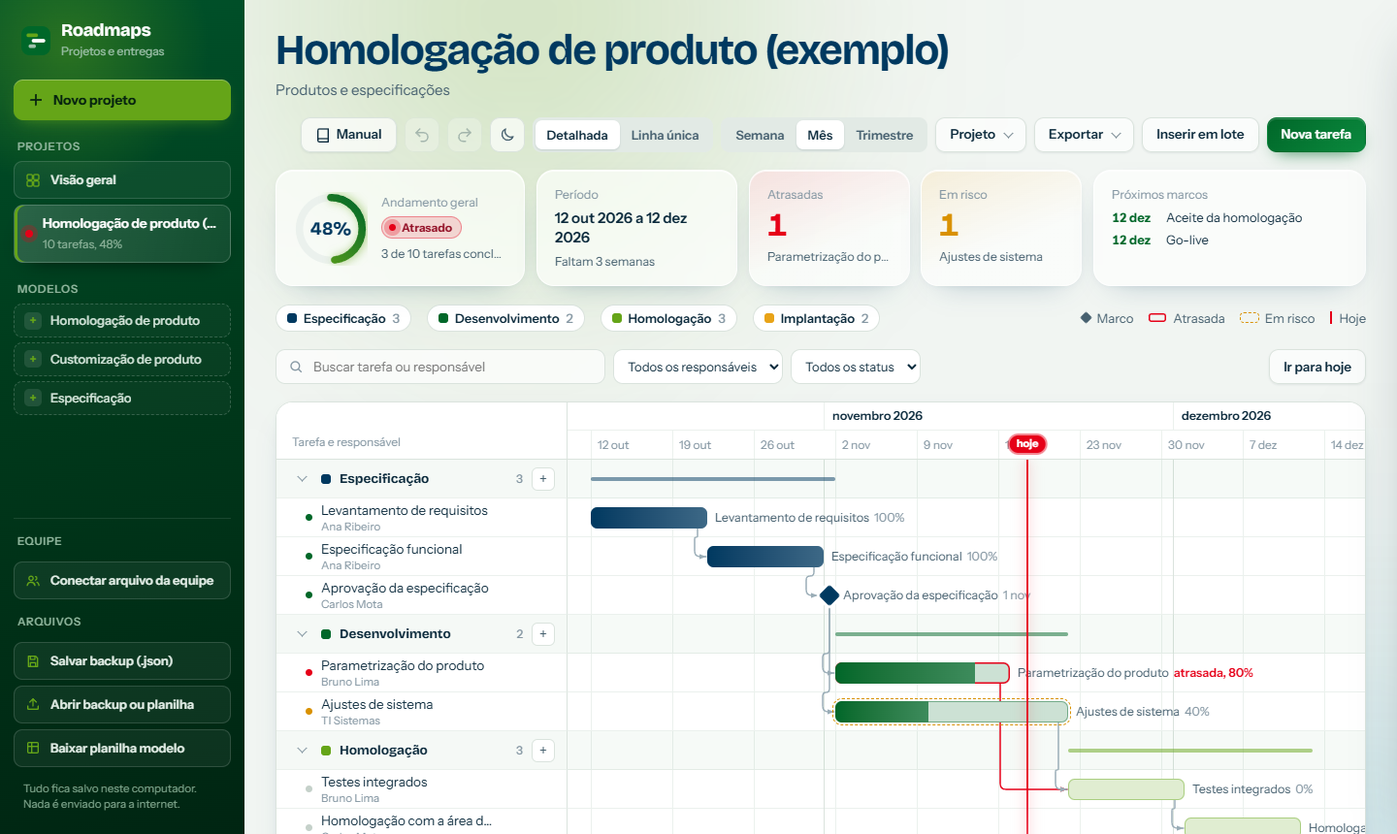
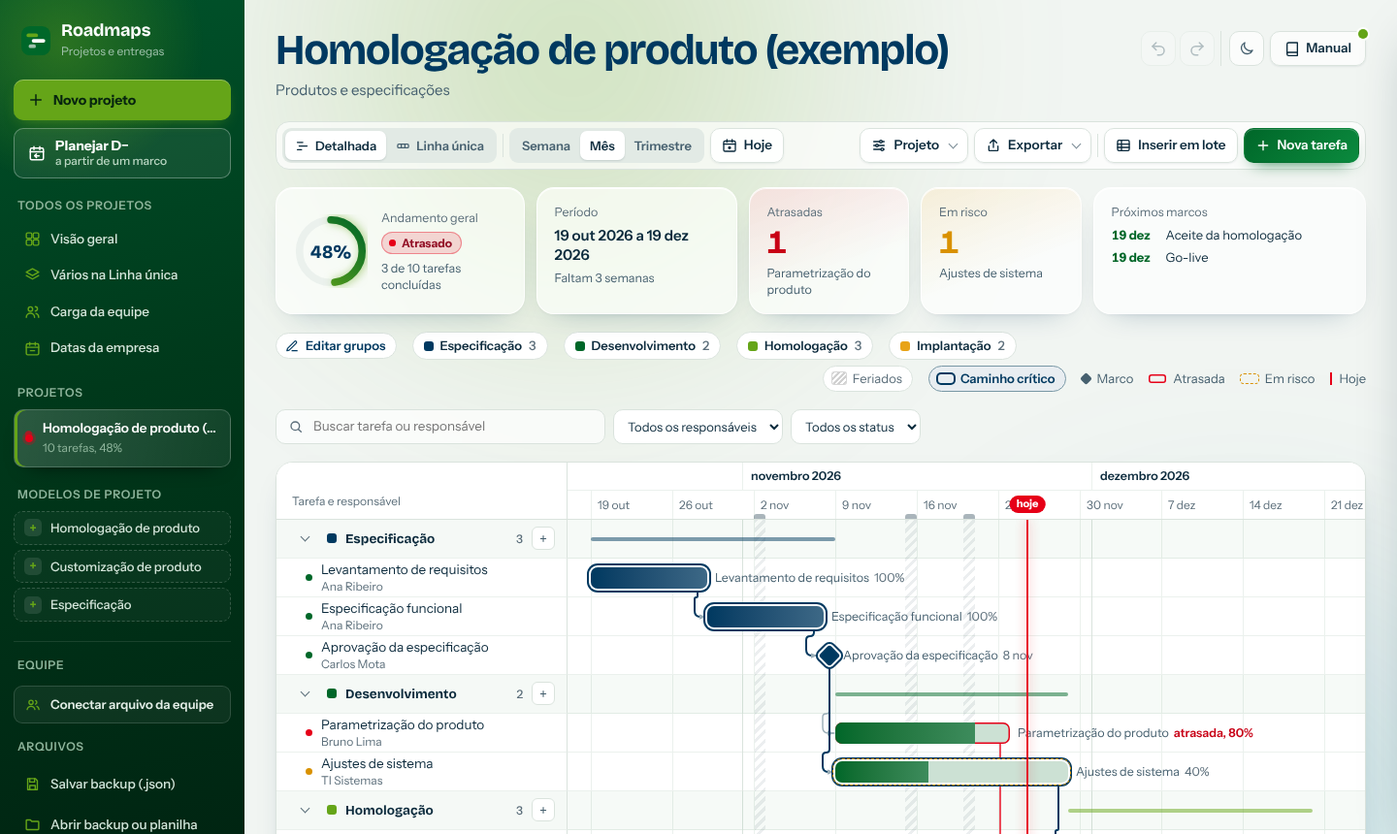
Menus reorganizados: barra lateral por seções e barra do cronograma em dois grupos
- Barra lateral: criar, Todos os projetos (Visão geral, Vários na Linha única,
  Carga da equipe, Datas da empresa), Projetos com contador, Modelos, Equipe, Arquivos
- Itens de navegação com ícone e texto, sem caixa; caixas só nas ações de criar
- No celular a barra lateral recolhe num botão Menu
- Barra do cronograma: à esquerda visão, Vários projetos (sempre visível),
  escala e Hoje; à direita Projeto, Exportar, Inserir em lote e Nova tarefa
- Desfazer, tema e Manual vão para o canto do título
- Menus Projeto e Exportar com ícones e seções
- Manual ganha "Onde fica cada coisa"; README e captura atualizados

Claude-Session: https://claude.ai/code/session_01PE2dqVPUrHEer5HNsE6hm6

diff --git a/index.html b/index.html
@@ -26,7 +26,8 @@ button{cursor:pointer}
 --sel:#1D1F1E;--seg:#18181C;--seg-on:#2B2B31;--title:#F4F4F5;--green-txt:#86C94A;--todo:#3A3A40;--arrow:#55565D;--arrow-hl:#D4D4D8;--band:rgba(255,255,255,.025);--wk:rgba(255,255,255,.02);--tip:#26262B;--lift:28%;--glass:rgba(24,24,28,.62);--edge:rgba(255,255,255,.08);--sh:inset 0 1px 0 rgba(255,255,255,.05),0 18px 40px -22px rgba(0,0,0,.95);--au1:rgba(101,165,24,.17);--au2:rgba(0,131,169,.15)}
 :root[data-theme=dark] .side{border-right:1px solid var(--line);color:var(--ink);background:linear-gradient(168deg,#0D1A11,var(--side) 52%)}
 :root[data-theme=dark] .brand small,:root[data-theme=dark] .side h3,:root[data-theme=dark] .pitem small,:root[data-theme=dark] .side-note,:root[data-theme=dark] .side .x{color:var(--ink-3)}
-:root[data-theme=dark] .pitem,:root[data-theme=dark] .tl,:root[data-theme=dark] .side-btn{color:var(--ink-2)}
+:root[data-theme=dark] .pitem,:root[data-theme=dark] .tl,:root[data-theme=dark] .side-btn,:root[data-theme=dark] .nav-i{color:var(--ink-2)}
+:root[data-theme=dark] .nav-i:hover{color:var(--ink)}
 :root[data-theme=dark] .side-btn,:root[data-theme=dark] .tl{border-color:var(--line)}
 :root[data-theme=dark] .side-foot{border-color:var(--line)}
 :root[data-theme=dark] .seg button[aria-pressed=true]{box-shadow:0 1px 2px rgba(0,0,0,.4)}
@@ -74,6 +75,17 @@ button{cursor:pointer}
 .side-btn:hover{background:rgba(255,255,255,.1);border-color:rgba(255,255,255,.28);box-shadow:0 6px 16px -10px rgba(0,0,0,.8)}
 .side-btn:hover svg{transform:scale(1.15)}
 .side .h3-gap{margin-top:10px}
+/* itens de navegação da barra lateral: ícone + texto, sem caixa (a caixa fica só para as ações de criar) */
+.side-new{display:flex;flex-direction:column;gap:8px}
+.side-sec{display:flex;flex-direction:column;gap:2px}
+.nav-i{display:flex;align-items:center;gap:10px;width:100%;background:none;border:1px solid transparent;color:#D5E6DB;text-align:left;padding:7px 10px;border-radius:9px;font-size:13.5px;font-weight:500}
+.nav-i svg{width:17px;height:17px;flex:none;color:var(--green-l)}
+.nav-i:hover{background:rgba(255,255,255,.08);color:#fff}
+.nav-i:focus-visible,.side-tog:focus-visible{outline:2px solid var(--green-l);outline-offset:1px}
+.h3-n:not(:empty){display:inline-grid;place-items:center;min-width:20px;height:18px;padding:0 6px;border-radius:99px;background:rgba(255,255,255,.12);color:#D5E6DB;font-size:11px;letter-spacing:0;margin-left:4px}
+.side-more{display:contents}
+.side-tog{display:none;align-items:center;gap:8px;background:rgba(255,255,255,.08);border:1px solid rgba(255,255,255,.2);color:#fff;border-radius:10px;padding:8px 12px;font-weight:600;font-size:13.5px}
+.side-tog svg{width:18px;height:18px}
 .team-box{display:flex;flex-direction:column;gap:6px}
 .team{display:flex;align-items:center;gap:10px;width:100%;text-align:left;background:rgba(255,255,255,.05);border:1px solid rgba(255,255,255,.14);color:#E3EEE7;padding:9px 11px;border-radius:9px;font-size:13px;transition:transform .2s cubic-bezier(.3,1.4,.5,1),background-color .15s,border-color .15s}
 .team:hover{background:rgba(255,255,255,.1);border-color:rgba(255,255,255,.28);transform:translateY(-1px)}
@@ -92,10 +104,21 @@ button{cursor:pointer}
 
 /* área principal */
 .main{padding:26px 32px 28px;display:flex;flex-direction:column;gap:18px;min-width:0}
-.top{display:flex;gap:20px;align-items:flex-end;justify-content:space-between;flex-wrap:wrap}
-.top{row-gap:14px}
-.title-wrap{flex:1 1 100%;min-width:0;display:flex;flex-direction:column}
-.top .actions{margin-left:auto}
+.top{display:flex;gap:16px;align-items:flex-start;justify-content:space-between}
+.title-wrap{flex:1 1 auto;min-width:0;display:flex;flex-direction:column}
+/* utilidades (desfazer, tema, manual): discretas, no canto do título */
+.util{display:flex;gap:6px;align-items:center;flex:none;padding-top:6px}
+.util-g{display:inline-flex;gap:4px;padding-right:6px;margin-right:2px;border-right:1px solid var(--line)}
+/* barra de comandos: à esquerda o que muda a visualização, à direita o que age no projeto; a ação principal fica no fim */
+.cmdbar{position:relative;z-index:25;display:flex;justify-content:space-between;align-items:center;gap:8px;flex-wrap:wrap;padding:6px;border:1px solid var(--line);border-radius:14px;background:var(--glass);-webkit-backdrop-filter:blur(10px);backdrop-filter:blur(10px)}
+.cb-g{display:flex;gap:6px;align-items:center;flex-wrap:wrap}
+.cmdbar .btn{padding:0 11px;gap:7px}
+.cmdbar .seg button{padding:0 10px}
+.cb-r{margin-left:auto}
+.cb-sep{width:1px;height:24px;background:var(--line);flex:none}
+.btn svg{width:16px;height:16px;flex:none}
+.seg-ic button{display:inline-flex;align-items:center;gap:6px}
+.seg-ic svg{width:15px;height:15px}
 .p-title{font:700 clamp(28px,3.2vw,44px)/1.08 var(--f-d);letter-spacing:-.028em;border:0;background:none;padding:2px 0;width:100%;color:var(--title);border-radius:0}
 .p-sub{border:0;background:none;color:var(--ink-2);font-size:15px;padding:4px 0;width:100%}
 .p-title:focus,.p-sub:focus{outline:none;box-shadow:0 2px 0 var(--green-l)}
@@ -118,7 +141,15 @@ button{cursor:pointer}
 .menu{position:relative}
 .menu summary::after{content:"";width:6px;height:6px;border:solid currentColor;border-width:0 1.5px 1.5px 0;transform:translateY(-2px) rotate(45deg);margin-left:4px;opacity:.55}
 .menu-pop{position:absolute;right:0;top:calc(100% + 6px);background:color-mix(in srgb,var(--surface) 86%,transparent);-webkit-backdrop-filter:blur(20px) saturate(1.5);backdrop-filter:blur(20px) saturate(1.5);border:1px solid var(--line);border-radius:13px;padding:5px;min-width:220px;z-index:30;box-shadow:0 18px 40px -14px rgba(11,42,60,.35);display:flex;flex-direction:column;animation:pop .28s cubic-bezier(.2,1.3,.4,1);transform-origin:top right}
-.menu-pop button{border:0;background:none;text-align:left;padding:9px 10px;border-radius:7px;font-size:13.5px}
+.menu-pop button{border:0;background:none;text-align:left;padding:8px 10px;border-radius:7px;font-size:13.5px;display:flex;align-items:center;gap:10px;color:var(--ink)}
+.menu-pop button[hidden]{display:none}
+.menu-pop button svg{width:16px;height:16px;flex:none;color:var(--ink-2)}
+.menu-pop .mp-h{font-size:11px;font-weight:700;color:var(--ink-3);padding:8px 10px 3px;text-transform:uppercase;letter-spacing:.05em}
+.menu-pop .mp-h:first-child{padding-top:4px}
+.menu-pop hr{border:0;border-top:1px solid var(--line);margin:5px 4px}
+.menu-pop.left{left:0;right:auto;transform-origin:top left}
+.cmdbar .menu-pop{background:var(--surface)}
+.menu-pop .danger svg{color:var(--red-txt)}
 .menu-pop button:hover{background:var(--line-2)}
 .menu-pop .danger{color:var(--red-txt)}
 @keyframes pop{from{opacity:0;transform:translateY(-6px) scale(.94)}}
@@ -126,7 +157,7 @@ button{cursor:pointer}
 /* movimento comum dos botões: sobe no hover, afunda no clique */
 :is(.btn,.btn-new,.side-btn,.tl,.pitem,.theme,.seg button,.menu-pop button,button.lg){transition:transform .2s cubic-bezier(.3,1.4,.5,1),background-color .15s,border-color .15s,box-shadow .2s,color .15s}
 :is(.btn,.btn-new,.side-btn,.tl,.theme):hover{transform:translateY(-1px)}
-:is(.pitem,.menu-pop button):hover{transform:translateX(2px)}
+:is(.pitem,.nav-i,.menu-pop button):hover{transform:translateX(2px)}
 :is(.btn,.btn-new,.side-btn,.tl,.pitem,.theme,.seg button,.menu-pop button,button.lg):active{transform:scale(.96);transition-duration:.08s}
 
 /* resumo */
@@ -690,15 +721,16 @@ body::after{right:-20vmax;bottom:-32vmax;background:radial-gradient(circle,var(-
 
 @media (max-width:860px){
   .app{grid-template-columns:minmax(0,1fr)}
-  .side{position:static;height:auto;flex-direction:row;flex-wrap:wrap;align-items:center;gap:10px}
-  .side-sec,.side-note,.side-foot h3{display:none}
-  .plist{flex-direction:row;overflow:auto;width:100%}
-  .pitem{flex:none;max-width:210px}
-  .side > div:has(#plist){width:100%;display:grid;grid-template-columns:repeat(3,minmax(0,1fr));gap:6px}
-  .side > div:has(#plist) > h3,.side > div:has(#plist) > .plist{grid-column:1/-1}
-  .side > div:has(#plist) .side-btn{flex-direction:column;align-items:flex-start;gap:6px;padding:9px 10px;font-size:12.5px;line-height:1.25}
-  .side-foot{margin:0;width:100%;display:grid;grid-template-columns:repeat(2,minmax(0,1fr));border:0;padding:0}
-  .side-foot .side-btn{font-size:12.5px;line-height:1.25}
+  /* no celular a barra lateral vira uma faixa com a marca e o botão Menu, que abre o resto */
+  .side{position:sticky;z-index:40;height:auto;max-height:100vh;flex-direction:row;flex-wrap:wrap;align-items:center;gap:12px;padding:12px 16px}
+  .brand{flex:1;padding:0}
+  .side-tog{display:flex}
+  .side-more{display:none;width:100%;flex-direction:column;gap:18px;padding:4px 0 8px}
+  .side.open .side-more{display:flex}
+  .side-foot{margin:0}
+  .top{flex-wrap:wrap}
+  .cb-r{margin-left:0}
+  .cb-sep{display:none}
   .p-title{font-size:24px}
   .main{padding:18px 16px}
   .sm-ms{grid-column:auto}
@@ -709,7 +741,7 @@ body::after{right:-20vmax;bottom:-32vmax;background:radial-gradient(circle,var(-
 @media print{
   @page{size:A4 landscape;margin:10mm}
   body{background:#fff}
-  .side,.actions,.tools,.drawer,.toast,.tip,body::before,body::after{display:none!important}
+  .side,.util,.cmdbar,.tools,.drawer,.toast,.tip,body::before,body::after{display:none!important}
   .sm{-webkit-backdrop-filter:none;backdrop-filter:none;box-shadow:none;border-color:#ccc}
   .app{display:block}.main{padding:0}
   .gantt{max-height:none;overflow:visible;border:0}
@@ -724,19 +756,27 @@ body::after{right:-20vmax;bottom:-32vmax;background:radial-gradient(circle,var(-
       <svg width="30" height="30" viewBox="0 0 28 28" aria-hidden="true"><rect width="28" height="28" rx="8" fill="#006729"/><rect x="5" y="7" width="11" height="3.5" rx="1.75" fill="#65A518"/><rect x="10" y="12.25" width="13" height="3.5" rx="1.75" fill="#fff"/><rect x="7" y="17.5" width="7" height="3.5" rx="1.75" fill="#9FC2AC"/></svg>
       <div><b>Roadmaps</b><small>Projetos e entregas</small></div>
     </div>
-    <button class="btn-new" id="btnNovo"><svg viewBox="0 0 24 24" fill="none" stroke="currentColor" stroke-width="2.4" stroke-linecap="round" aria-hidden="true"><path d="M12 5v14M5 12h14"/></svg>Novo projeto</button>
-    <button class="btn-dm edit-only" data-act="dm" title="Planejar de trás para frente a partir de um marco, em dias úteis"><svg viewBox="0 0 24 24" fill="none" stroke="currentColor" stroke-width="2" stroke-linecap="round" stroke-linejoin="round" aria-hidden="true"><rect x="3" y="5" width="18" height="16" rx="2"/><path d="M3 10h18M8 3v4M16 3v4"/><path d="M15 15.5h-6M11.5 13 9 15.5l2.5 2.5"/></svg><span>Planejar D−<small>a partir de um marco</small></span></button>
-    <div><h3>Projetos</h3><button class="side-btn all" data-act="all"><svg viewBox="0 0 24 24" fill="none" stroke="currentColor" stroke-width="2" stroke-linecap="round" stroke-linejoin="round" aria-hidden="true"><rect x="3" y="3" width="8" height="8" rx="2"/><rect x="13" y="3" width="8" height="8" rx="2"/><rect x="3" y="13" width="8" height="8" rx="2"/><rect x="13" y="13" width="8" height="8" rx="2"/></svg>Visão geral</button><button class="side-btn all" data-act="marks"><svg viewBox="0 0 24 24" fill="none" stroke="currentColor" stroke-width="2" stroke-linecap="round" stroke-linejoin="round" aria-hidden="true"><rect x="3" y="5" width="18" height="16" rx="2"/><path d="M3 10h18M8 3v4M16 3v4M9 15h6"/></svg>Datas da empresa</button><button class="side-btn all" data-act="load"><svg viewBox="0 0 24 24" fill="none" stroke="currentColor" stroke-width="2" stroke-linecap="round" stroke-linejoin="round" aria-hidden="true"><circle cx="9" cy="8" r="3.2"/><path d="M3 20c0-3.3 2.7-6 6-6s6 2.7 6 6"/><path d="M16 4.5a3.2 3.2 0 0 1 0 6.4M21 20c0-2.6-1.6-4.8-4-5.6"/></svg>Carga da equipe</button><nav class="plist" id="plist" aria-label="Projetos"></nav></div>
-    <div class="side-sec"><h3>Modelos</h3><ul class="tlist" id="tlist"></ul></div>
+    <button class="side-tog" id="sideTog" type="button" aria-expanded="false" aria-controls="sideMore"><svg viewBox="0 0 24 24" fill="none" stroke="currentColor" stroke-width="2" stroke-linecap="round" stroke-linejoin="round" aria-hidden="true"><path d="M4 6h16M4 12h16M4 18h16"/></svg><span>Menu</span></button>
+    <div class="side-more" id="sideMore">
+    <div class="side-new"><button class="btn-new" id="btnNovo"><svg viewBox="0 0 24 24" fill="none" stroke="currentColor" stroke-width="2" stroke-linecap="round" stroke-linejoin="round" aria-hidden="true"><path d="M12 5v14M5 12h14"/></svg>Novo projeto</button>
+    <button class="btn-dm edit-only" data-act="dm" title="Planejar de trás para frente a partir de um marco, em dias úteis"><svg viewBox="0 0 24 24" fill="none" stroke="currentColor" stroke-width="2" stroke-linecap="round" stroke-linejoin="round" aria-hidden="true"><rect x="3" y="5" width="18" height="16" rx="2"/><path d="M3 10h18M8 3v4M16 3v4"/><path d="M15 15.5h-6M11.5 13 9 15.5l2.5 2.5"/></svg><span>Planejar D−<small>a partir de um marco</small></span></button></div>
+    <nav class="side-sec" aria-label="Painéis de todos os projetos"><h3>Todos os projetos</h3>
+      <button class="nav-i" data-act="all"><svg viewBox="0 0 24 24" fill="none" stroke="currentColor" stroke-width="2" stroke-linecap="round" stroke-linejoin="round" aria-hidden="true"><rect x="3" y="3" width="8" height="8" rx="2"/><rect x="13" y="3" width="8" height="8" rx="2"/><rect x="3" y="13" width="8" height="8" rx="2"/><rect x="13" y="13" width="8" height="8" rx="2"/></svg>Visão geral</button>
+      <button class="nav-i" data-act="lpOpen" title="Ver vários projetos juntos, um embaixo do outro, na mesma régua de meses"><svg viewBox="0 0 24 24" fill="none" stroke="currentColor" stroke-width="2" stroke-linecap="round" stroke-linejoin="round" aria-hidden="true"><path d="m12 3 9 5-9 5-9-5z"/><path d="m3 13 9 5 9-5"/></svg>Vários na Linha única</button>
+      <button class="nav-i" data-act="load"><svg viewBox="0 0 24 24" fill="none" stroke="currentColor" stroke-width="2" stroke-linecap="round" stroke-linejoin="round" aria-hidden="true"><circle cx="9" cy="8" r="3.2"/><path d="M3 20c0-3.3 2.7-6 6-6s6 2.7 6 6"/><path d="M16 4.5a3.2 3.2 0 0 1 0 6.4M21 20c0-2.6-1.6-4.8-4-5.6"/></svg>Carga da equipe</button>
+      <button class="nav-i" data-act="marks"><svg viewBox="0 0 24 24" fill="none" stroke="currentColor" stroke-width="2" stroke-linecap="round" stroke-linejoin="round" aria-hidden="true"><rect x="3" y="5" width="18" height="16" rx="2"/><path d="M3 10h18M8 3v4M16 3v4M9 15h6"/></svg>Datas da empresa</button></nav>
+    <div class="side-sec"><h3>Projetos <span class="h3-n" id="plistN"></span></h3><nav class="plist" id="plist" aria-label="Projetos"></nav></div>
+    <div class="side-sec"><h3>Modelos de projeto</h3><ul class="tlist" id="tlist"></ul></div>
     <div class="side-foot">
       <h3>Equipe</h3>
       <div id="team" class="team-box"></div>
       <h3 class="h3-gap">Arquivos</h3>
-      <button class="side-btn" id="btnBackup"><svg viewBox="0 0 24 24" fill="none" stroke="currentColor" stroke-width="2" stroke-linecap="round" stroke-linejoin="round" aria-hidden="true"><path d="M5 4h11l3 3v13H5z"/><path d="M8 4v5h7V4M8 20v-6h8v6"/></svg>Salvar backup (.json)</button>
-      <button class="side-btn" id="btnOpen"><svg viewBox="0 0 24 24" fill="none" stroke="currentColor" stroke-width="2" stroke-linecap="round" stroke-linejoin="round" aria-hidden="true"><path d="M12 15V4M7 9l5-5 5 5M4 15v4a1 1 0 0 0 1 1h14a1 1 0 0 0 1-1v-4"/></svg>Abrir backup ou planilha</button>
-      <button class="side-btn" id="btnModelo"><svg viewBox="0 0 24 24" fill="none" stroke="currentColor" stroke-width="2" stroke-linecap="round" stroke-linejoin="round" aria-hidden="true"><rect x="4" y="4" width="16" height="16" rx="2"/><path d="M4 10h16M10 4v16"/></svg>Baixar planilha modelo</button>
+      <button class="nav-i" id="btnBackup"><svg viewBox="0 0 24 24" fill="none" stroke="currentColor" stroke-width="2" stroke-linecap="round" stroke-linejoin="round" aria-hidden="true"><path d="M5 4h11l3 3v13H5z"/><path d="M8 4v5h7V4M8 20v-6h8v6"/></svg>Salvar backup (.json)</button>
+      <button class="nav-i" id="btnOpen"><svg viewBox="0 0 24 24" fill="none" stroke="currentColor" stroke-width="2" stroke-linecap="round" stroke-linejoin="round" aria-hidden="true"><path d="M3 6a1 1 0 0 1 1-1h5l2 2h9a1 1 0 0 1 1 1v10a1 1 0 0 1-1 1H4a1 1 0 0 1-1-1z"/></svg>Abrir backup ou planilha</button>
+      <button class="nav-i" id="btnModelo"><svg viewBox="0 0 24 24" fill="none" stroke="currentColor" stroke-width="2" stroke-linecap="round" stroke-linejoin="round" aria-hidden="true"><path d="M14 3H6a1 1 0 0 0-1 1v16a1 1 0 0 0 1 1h12a1 1 0 0 0 1-1V8z"/><path d="M14 3v5h5M12 11v6M9 14l3 3 3-3"/></svg>Baixar planilha modelo</button>
       <input type="file" id="fileOpen" accept=".json,.xlsx" hidden>
       <p class="side-note">Tudo fica salvo neste computador. Nada é enviado para a internet.</p>
+    </div>
     </div>
   </aside>
 
@@ -746,48 +786,62 @@ body::after{right:-20vmax;bottom:-32vmax;background:radial-gradient(circle,var(-
         <input class="p-title" id="pTitle" aria-label="Nome do projeto" spellcheck="false" autocomplete="off">
         <input class="p-sub" id="pSub" placeholder="Área ou descrição do projeto" aria-label="Área ou descrição" autocomplete="off">
       </div>
-      <div class="actions">
-        <button class="btn edit-only" id="btnManual" title="Como usar cada função"><svg width="16" height="16" viewBox="0 0 24 24" fill="none" stroke="currentColor" stroke-width="2" stroke-linecap="round" stroke-linejoin="round" aria-hidden="true"><path d="M4 5.5A2.5 2.5 0 0 1 6.5 3H20v15H6.5A2.5 2.5 0 0 0 4 20.5zM4 20.5A2.5 2.5 0 0 0 6.5 23H20v-5"/></svg>Manual</button>
-        <button class="theme edit-only" id="btnUndo" data-act="undo" aria-label="Desfazer" title="Desfazer (Ctrl+Z)" disabled><svg viewBox="0 0 24 24" fill="none" stroke="currentColor" stroke-width="2" stroke-linecap="round" stroke-linejoin="round" aria-hidden="true"><path d="M9 14 4 9l5-5"/><path d="M4 9h10a6 6 0 0 1 0 12h-3"/></svg></button>
-        <button class="theme edit-only" id="btnRedo" data-act="redo" aria-label="Refazer" title="Refazer (Ctrl+Y)" disabled><svg viewBox="0 0 24 24" fill="none" stroke="currentColor" stroke-width="2" stroke-linecap="round" stroke-linejoin="round" aria-hidden="true"><path d="m15 14 5-5-5-5"/><path d="M20 9H10a6 6 0 0 0 0 12h3"/></svg></button>
+      <div class="util">
+        <span class="util-g edit-only"><button class="theme edit-only" id="btnUndo" data-act="undo" aria-label="Desfazer" title="Desfazer (Ctrl+Z)" disabled><svg viewBox="0 0 24 24" fill="none" stroke="currentColor" stroke-width="2" stroke-linecap="round" stroke-linejoin="round" aria-hidden="true"><path d="M9 14 4 9l5-5"/><path d="M4 9h10a6 6 0 0 1 0 12h-3"/></svg></button><button class="theme edit-only" id="btnRedo" data-act="redo" aria-label="Refazer" title="Refazer (Ctrl+Y)" disabled><svg viewBox="0 0 24 24" fill="none" stroke="currentColor" stroke-width="2" stroke-linecap="round" stroke-linejoin="round" aria-hidden="true"><path d="m15 14 5-5-5-5"/><path d="M20 9H10a6 6 0 0 0 0 12h3"/></svg></button></span>
         <button class="theme" id="btnTheme" aria-label="Tema escuro" aria-pressed="false" title="Alternar entre tema claro e escuro">
           <svg class="i-moon" viewBox="0 0 24 24" fill="none" stroke="currentColor" stroke-width="1.8" stroke-linecap="round" stroke-linejoin="round" aria-hidden="true"><path d="M20 14.5A8 8 0 0 1 9.5 4a8 8 0 1 0 10.5 10.5z"/></svg>
           <svg class="i-sun" viewBox="0 0 24 24" fill="none" stroke="currentColor" stroke-width="1.8" stroke-linecap="round" aria-hidden="true"><circle cx="12" cy="12" r="4"/><path d="M12 2.5v2M12 19.5v2M4.6 4.6 6 6M18 18l1.4 1.4M2.5 12h2M19.5 12h2M4.6 19.4 6 18M18 6l1.4-1.4"/></svg>
         </button>
-        <div class="seg" id="view" role="group" aria-label="Visão do cronograma">
-          <button data-v="detail" title="Uma linha por tarefa, com grupos e dependências">Detalhada</button><button data-v="line" title="Resumo executivo: todas as tarefas numa faixa contínua, com cores, nomes e datas">Linha única</button>
-        </div>
-        <details class="menu" id="lpMenu" hidden><summary class="btn" title="Escolher os projetos que aparecem na Linha única">Projetos <span class="lp-n" id="lpN"></span></summary>
-          <div class="menu-pop lp-pop" id="lpPop"></div>
-        </details>
-        <div class="seg" id="zoom" role="group" aria-label="Escala do Gantt">
-          <button data-z="week">Semana</button><button data-z="month">Mês</button><button data-z="quarter">Trimestre</button>
-        </div>
-        <details class="menu edit-only"><summary class="btn">Projeto</summary>
-          <div class="menu-pop">
-            <button data-act="groups">Grupos e cores</button>
-            <button data-act="baseSet">Salvar linha de base</button>
-            <button data-act="baseDel" hidden>Remover linha de base</button>
-            <button data-act="rag">Critério das cores</button>
-            <button data-act="dmRe" hidden>Replanejar D−</button>
-            <button data-act="saveTpl">Salvar como modelo</button>
-            <button data-act="dup">Duplicar projeto</button>
-            <button data-act="del" class="danger">Excluir projeto</button>
-          </div>
-        </details>
-        <details class="menu"><summary class="btn">Exportar</summary>
-          <div class="menu-pop">
-            <button data-act="report">Relatório executivo (1 página)</button>
-            <button data-act="pptx">PowerPoint (.pptx)</button>
-            <button data-act="xlsx">Planilha Excel (.xlsx)</button>
-            <button data-act="html" class="edit-only">HTML para envio</button>
-            <button data-act="print">Imprimir ou salvar PDF</button>
-          </div>
-        </details>
-        <button class="btn edit-only" data-act="batch" title="Digitar ou colar várias tarefas de uma vez">Inserir em lote</button>
-        <button class="btn primary edit-only" data-act="newTask">Nova tarefa</button>
+        <button class="btn edit-only" id="btnManual" title="Como usar cada função"><svg width="16" height="16" viewBox="0 0 24 24" fill="none" stroke="currentColor" stroke-width="2" stroke-linecap="round" stroke-linejoin="round" aria-hidden="true"><path d="M4 5.5A2.5 2.5 0 0 1 6.5 3H20v15H6.5A2.5 2.5 0 0 0 4 20.5zM4 20.5A2.5 2.5 0 0 0 6.5 23H20v-5"/></svg>Manual</button>
       </div>
     </header>
+    <div class="cmdbar" role="toolbar" aria-label="Cronograma">
+      <div class="cb-g">
+        <div class="seg seg-ic" id="view" role="group" aria-label="Visão do cronograma">
+          <button data-v="detail" title="Uma linha por tarefa, com grupos e dependências"><svg viewBox="0 0 24 24" fill="none" stroke="currentColor" stroke-width="2" stroke-linecap="round" stroke-linejoin="round" aria-hidden="true"><path d="M4 6h9M7 12h13M4 18h7"/></svg>Detalhada</button><button data-v="line" title="Resumo executivo: todas as tarefas numa faixa contínua. Dá para ver vários projetos juntos"><svg viewBox="0 0 24 24" fill="none" stroke="currentColor" stroke-width="2" stroke-linecap="round" stroke-linejoin="round" aria-hidden="true"><rect x="3" y="9" width="18" height="6" rx="2"/><path d="M9 9v6M15 9v6"/></svg>Linha única</button>
+        </div>
+        <details class="menu" id="lpMenu" hidden><summary class="btn" title="Escolher os projetos que aparecem juntos na Linha única"><svg viewBox="0 0 24 24" fill="none" stroke="currentColor" stroke-width="2" stroke-linecap="round" stroke-linejoin="round" aria-hidden="true"><path d="m12 3 9 5-9 5-9-5z"/><path d="m3 13 9 5 9-5"/></svg><span>Vários projetos</span><span class="lp-n" id="lpN"></span></summary>
+          <div class="menu-pop lp-pop left" id="lpPop"></div>
+        </details>
+        <span class="cb-sep" aria-hidden="true"></span>
+        <div class="seg" id="zoom" role="group" aria-label="Escala do cronograma">
+          <button data-z="week">Semana</button><button data-z="month">Mês</button><button data-z="quarter">Trimestre</button>
+        </div>
+        <button class="btn" id="btnHoje" data-act="hoje" title="Rolar o cronograma até o dia de hoje"><svg viewBox="0 0 24 24" fill="none" stroke="currentColor" stroke-width="2" stroke-linecap="round" stroke-linejoin="round" aria-hidden="true"><rect x="3" y="5" width="18" height="16" rx="2"/><path d="M3 10h18M8 3v4M16 3v4"/><circle cx="12" cy="15.5" r="1.5" fill="currentColor"/></svg>Hoje</button>
+      </div>
+      <div class="cb-g cb-r">
+        <details class="menu edit-only"><summary class="btn"><svg viewBox="0 0 24 24" fill="none" stroke="currentColor" stroke-width="2" stroke-linecap="round" stroke-linejoin="round" aria-hidden="true"><path d="M4 6h9M17 6h3M4 12h3M11 12h9M4 18h11M19 18h1"/><circle cx="15" cy="6" r="2"/><circle cx="9" cy="12" r="2"/><circle cx="17" cy="18" r="2"/></svg>Projeto</summary>
+          <div class="menu-pop">
+            <div class="mp-h">Organizar</div>
+            <button data-act="groups"><svg viewBox="0 0 24 24" fill="none" stroke="currentColor" stroke-width="2" stroke-linecap="round" stroke-linejoin="round" aria-hidden="true"><rect x="3" y="3" width="7" height="7" rx="1.5"/><rect x="14" y="3" width="7" height="7" rx="1.5"/><rect x="3" y="14" width="7" height="7" rx="1.5"/><circle cx="17.5" cy="17.5" r="3.5"/></svg><span>Grupos e cores</span></button>
+            <button data-act="rag"><svg viewBox="0 0 24 24" fill="none" stroke="currentColor" stroke-width="2" stroke-linecap="round" stroke-linejoin="round" aria-hidden="true"><path d="M4.5 18a9 9 0 1 1 15 0"/><path d="m12 13 3.5-3.5"/><circle cx="12" cy="13" r="1"/></svg><span>Critério das cores</span></button>
+            <div class="mp-h">Acompanhar o plano</div>
+            <button data-act="baseSet"><svg viewBox="0 0 24 24" fill="none" stroke="currentColor" stroke-width="2" stroke-linecap="round" stroke-linejoin="round" aria-hidden="true"><path d="M5 21V4h12l-2.5 4L17 12H5"/></svg><span>Salvar linha de base</span></button>
+            <button data-act="baseDel" hidden><svg viewBox="0 0 24 24" fill="none" stroke="currentColor" stroke-width="2" stroke-linecap="round" stroke-linejoin="round" aria-hidden="true"><path d="M5 21V4h12l-2.5 4L17 12H5"/></svg><span>Remover linha de base</span></button>
+            <button data-act="dmRe" hidden><svg viewBox="0 0 24 24" fill="none" stroke="currentColor" stroke-width="2" stroke-linecap="round" stroke-linejoin="round" aria-hidden="true"><rect x="3" y="5" width="18" height="16" rx="2"/><path d="M3 10h18M8 3v4M16 3v4"/><path d="M15 15.5h-6M11.5 13 9 15.5l2.5 2.5"/></svg><span>Replanejar D−</span></button>
+            <div class="mp-h">Reaproveitar</div>
+            <button data-act="saveTpl"><svg viewBox="0 0 24 24" fill="none" stroke="currentColor" stroke-width="2" stroke-linecap="round" stroke-linejoin="round" aria-hidden="true"><path d="M6 3h12v18l-6-4-6 4z"/><path d="M12 7v6M9 10h6"/></svg><span>Salvar como modelo</span></button>
+            <button data-act="dup"><svg viewBox="0 0 24 24" fill="none" stroke="currentColor" stroke-width="2" stroke-linecap="round" stroke-linejoin="round" aria-hidden="true"><rect x="8" y="8" width="13" height="13" rx="2"/><path d="M16 8V5a2 2 0 0 0-2-2H5a2 2 0 0 0-2 2v9a2 2 0 0 0 2 2h3"/></svg><span>Duplicar projeto</span></button>
+            <hr>
+            <button data-act="del" class="danger"><svg viewBox="0 0 24 24" fill="none" stroke="currentColor" stroke-width="2" stroke-linecap="round" stroke-linejoin="round" aria-hidden="true"><path d="M4 7h16M10 11v6M14 11v6M6 7l1 13h10l1-13M9 7V4h6v3"/></svg><span>Excluir projeto</span></button>
+          </div>
+        </details>
+        <details class="menu"><summary class="btn"><svg viewBox="0 0 24 24" fill="none" stroke="currentColor" stroke-width="2" stroke-linecap="round" stroke-linejoin="round" aria-hidden="true"><path d="M12 15V3M7 8l5-5 5 5"/><path d="M5 13v6a1 1 0 0 0 1 1h12a1 1 0 0 0 1-1v-6"/></svg>Exportar</summary>
+          <div class="menu-pop">
+            <div class="mp-h">Apresentar</div>
+            <button data-act="report"><svg viewBox="0 0 24 24" fill="none" stroke="currentColor" stroke-width="2" stroke-linecap="round" stroke-linejoin="round" aria-hidden="true"><path d="M14 3H6a1 1 0 0 0-1 1v16a1 1 0 0 0 1 1h12a1 1 0 0 0 1-1V8z"/><path d="M14 3v5h5M9 13h6M9 17h4"/></svg><span>Relatório executivo (1 página)</span></button>
+            <button data-act="pptx"><svg viewBox="0 0 24 24" fill="none" stroke="currentColor" stroke-width="2" stroke-linecap="round" stroke-linejoin="round" aria-hidden="true"><rect x="3" y="4" width="18" height="12" rx="1.5"/><path d="M12 16v4M8 20h8"/></svg><span>PowerPoint (.pptx)</span></button>
+            <div class="mp-h">Enviar ou guardar</div>
+            <button data-act="xlsx"><svg viewBox="0 0 24 24" fill="none" stroke="currentColor" stroke-width="2" stroke-linecap="round" stroke-linejoin="round" aria-hidden="true"><rect x="3" y="4" width="18" height="16" rx="2"/><path d="M3 10h18M3 15h18M9 4v16"/></svg><span>Planilha Excel (.xlsx)</span></button>
+            <button data-act="html" class="edit-only"><svg viewBox="0 0 24 24" fill="none" stroke="currentColor" stroke-width="2" stroke-linecap="round" stroke-linejoin="round" aria-hidden="true"><path d="M21 3 10 14"/><path d="m21 3-7 18-4-7-7-4z"/></svg><span>HTML para envio</span></button>
+            <button data-act="print"><svg viewBox="0 0 24 24" fill="none" stroke="currentColor" stroke-width="2" stroke-linecap="round" stroke-linejoin="round" aria-hidden="true"><path d="M7 9V3h10v6"/><path d="M7 17H5a2 2 0 0 1-2-2v-4a2 2 0 0 1 2-2h14a2 2 0 0 1 2 2v4a2 2 0 0 1-2 2h-2"/><rect x="7" y="14" width="10" height="7" rx="1"/></svg><span>Imprimir ou salvar PDF</span></button>
+          </div>
+        </details>
+        <span class="cb-sep edit-only" aria-hidden="true"></span>
+        <button class="btn edit-only" data-act="batch" title="Digitar ou colar várias tarefas de uma vez"><svg viewBox="0 0 24 24" fill="none" stroke="currentColor" stroke-width="2" stroke-linecap="round" stroke-linejoin="round" aria-hidden="true"><rect x="3" y="4" width="18" height="16" rx="2"/><path d="M3 10h18M3 15h18M9 4v16"/></svg>Inserir em lote</button>
+        <button class="btn primary edit-only" data-act="newTask"><svg viewBox="0 0 24 24" fill="none" stroke="currentColor" stroke-width="2" stroke-linecap="round" stroke-linejoin="round" aria-hidden="true"><path d="M12 5v14M5 12h14"/></svg>Nova tarefa</button>
+      </div>
+    </div>
     <section class="summary" id="summary" aria-label="Resumo do projeto"></section>
     <section class="legend" id="legend" aria-label="Legenda"></section>
     <div class="tools" id="tools">
@@ -797,7 +851,6 @@ body::after{right:-20vmax;bottom:-32vmax;background:radial-gradient(circle,var(-
       <button class="btn slim" id="fClear" data-act="fClear" hidden>Limpar filtros</button>
       <span class="f-info" id="fInfo" aria-live="polite"></span>
       <span class="sel-info" id="selInfo" hidden aria-live="polite"><b></b><button class="btn slim" data-act="selClear">Limpar seleção</button></span>
-      <button class="btn slim" id="btnHoje" data-act="hoje" title="Rolar o cronograma até o dia de hoje">Ir para hoje</button>
     </div>
     <div class="gantt" id="gantt"></div>
     <footer class="ro-foot ro-only" id="roFoot"></footer>
@@ -851,6 +904,13 @@ body::after{right:-20vmax;bottom:-32vmax;background:radial-gradient(circle,var(-
         <li>Dê um nome, escolha um modelo (ou comece em branco) e a data de início.</li>
         <li>Para começar direto de um modelo, clique no nome dele em <b>Modelos</b>.</li>
       </ol>Para trocar de projeto, clique nele na lista <b>Projetos</b>. O nome e a área do projeto podem ser editados clicando no título.</div></details>
+      <details><summary>Onde fica cada coisa</summary><div><ul>
+        <li><b>Barra lateral, de cima para baixo:</b> criar (<b>Novo projeto</b> e <b>Planejar D−</b>); <b>Todos os projetos</b>, com os painéis que juntam tudo (Visão geral, Vários na Linha única, Carga da equipe e Datas da empresa); a lista dos seus <b>Projetos</b>; os <b>Modelos de projeto</b>; e, no fim, <b>Equipe</b> e <b>Arquivos</b> (backup e planilha modelo).</li>
+        <li><b>Barra do cronograma, à esquerda, o que muda o que você vê:</b> Detalhada ou Linha única, <b>Vários projetos</b> (escolha outros projetos para ver juntos; ao marcar um, a tela passa para a Linha única), a escala Semana, Mês ou Trimestre e <b>Hoje</b>.</li>
+        <li><b>Barra do cronograma, à direita, o que mexe no projeto:</b> o menu <b>Projeto</b> (grupos e cores, critério das cores, linha de base, replanejar D−, salvar como modelo, duplicar e excluir), o menu <b>Exportar</b>, <b>Inserir em lote</b> e, por último, a ação principal, <b>Nova tarefa</b>.</li>
+        <li><b>No canto do título:</b> desfazer e refazer, tema claro ou escuro e este Manual.</li>
+        <li>No celular, a barra lateral fica recolhida: toque em <b>Menu</b> no topo para abrir.</li>
+      </ul></div></details>
       <details><summary>Adicionar e editar tarefas</summary><div><ul>
         <li><b>Nova tarefa</b> no topo cria uma tarefa no primeiro grupo. O <b>+</b> ao lado de um grupo cria nele.</li>
         <li>Clique no nome ou na barra da tarefa para abrir os detalhes: nome, grupo, responsáveis, datas, % concluído, marco, em risco, checklist e dependências.</li>
@@ -941,7 +1001,7 @@ body::after{right:-20vmax;bottom:-32vmax;background:radial-gradient(circle,var(-
         <li>A mesma cor aparece na bolinha ao lado de cada projeto na barra lateral.</li>
       </ul></div></details>
       <details><summary>Visão geral dos projetos</summary><div><ul>
-        <li><b>Visão geral</b>, na barra lateral, mostra todos os projetos lado a lado: situação, % concluído, período, atrasadas e próximo marco.</li>
+        <li><b>Visão geral</b>, na barra lateral em <b>Todos os projetos</b>, mostra todos os projetos lado a lado: situação, % concluído, período, atrasadas e próximo marco.</li>
         <li>Cada projeto ocupa uma linha, e todos usam a mesma régua de meses e anos no topo. O traço vermelho é hoje e os losangos são os marcos.</li>
         <li>Passe o mouse sobre a régua ou as linhas: uma linha tracejada mostra a data exata, para ver em que dias os projetos se sobrepõem.</li>
         <li>A cor da barra segue a situação do projeto: verde no prazo, amarelo atenção, vermelho atrasado, azul concluído.</li>
@@ -954,8 +1014,8 @@ body::after{right:-20vmax;bottom:-32vmax;background:radial-gradient(circle,var(-
         <li>Com filtro ligado não dá para mudar a ordem arrastando. <b>Limpar filtros</b> volta ao normal.</li>
       </ul></div></details>
       <details><summary>Ler o cronograma</summary><div><ul>
-        <li><b>Detalhada</b> mostra uma linha por tarefa, com grupos e dependências. <b>Linha única</b> põe todas as tarefas numa faixa só, encostadas e em ordem de início, cada uma com a cor do grupo, o nome e as datas. O selo vermelho marca o que está acontecendo hoje. A faixa é contínua, sem espaços entre as tarefas; o comprimento de cada bloco dá a ideia da duração. No topo fica uma régua de meses e anos, igual para todos os projetos: cada projeto ocupa as colunas dos meses em que tem tarefa (basta um dia no mês) e o mês atual fica destacado, então dá para ver em que meses os projetos se cruzam. No botão <b>Projetos</b> você escolhe outros projetos para ver juntos, um abaixo do outro; o HTML para envio leva todos os que estiverem na tela.</li>
-        <li><b>Semana, Mês e Trimestre</b> mudam o zoom da linha do tempo. <b>Ir para hoje</b> rola o cronograma até o dia atual.</li>
+        <li><b>Detalhada</b> mostra uma linha por tarefa, com grupos e dependências. <b>Linha única</b> põe todas as tarefas numa faixa só, encostadas e em ordem de início, cada uma com a cor do grupo, o nome e as datas. O selo vermelho marca o que está acontecendo hoje. A faixa é contínua, sem espaços entre as tarefas; o comprimento de cada bloco dá a ideia da duração. No topo fica uma régua de meses e anos, igual para todos os projetos: cada projeto ocupa as colunas dos meses em que tem tarefa (basta um dia no mês) e o mês atual fica destacado, então dá para ver em que meses os projetos se cruzam. No botão <b>Vários projetos</b> (ou em <b>Vários na Linha única</b>, na barra lateral) você escolhe outros projetos para ver juntos, um abaixo do outro; o HTML para envio leva todos os que estiverem na tela.</li>
+        <li><b>Semana, Mês e Trimestre</b> mudam o zoom da linha do tempo. <b>Hoje</b> rola o cronograma até o dia atual.</li>
         <li>O próximo marco pisca de leve, e as tarefas em andamento têm um brilho passando na barra.</li>
         <li>A linha vermelha é o dia de hoje. Tarefas vencidas e não concluídas ficam marcadas como <b>Atrasada</b>; as marcadas como em risco aparecem tracejadas.</li>
         <li>O resumo no topo mostra o andamento geral, o período, atrasos, riscos e os próximos marcos.</li>
@@ -1589,6 +1649,7 @@ const hb = p => { const [k, l] = health(p); return `<span class="hb hb-${k}">${l
 
 function renderSide() {
   if (RO) return;
+  $('#plistN').textContent = state.projects.length > 1 ? state.projects.length : '';
   $('#plist').innerHTML = state.projects.map(p => `<button class="pitem${p.id === state.currentId ? ' on' : ''}" data-p="${p.id}"><i class="hd hb-${health(p)[0]}" title="${health(p)[1]}"></i><span><b>${esc(p.name)}</b><small>${p.tasks.length} ${p.tasks.length === 1 ? 'tarefa' : 'tarefas'}, ${pctOf(p)}%</small></span></button>`).join('');
   $('#tlist').innerHTML = allTpls().map(t => `<li><button class="tl" data-tpl="${t.id}" title="Criar projeto a partir de ${esc(t.name)}"><span>${esc(t.name)}</span></button>${t.builtin ? '' : `<button class="x" data-deltpl="${t.id}" aria-label="Excluir modelo ${esc(t.name)}">×</button>`}</li>`).join('');
   $('#owners').innerHTML = [...new Set(state.projects.flatMap(p => p.tasks.flatMap(owns)).filter(Boolean))].map(o => `<option value="${esc(o)}">`).join('');
@@ -1602,10 +1663,11 @@ function renderTop() {
   document.querySelectorAll('#zoom button').forEach(b => b.setAttribute('aria-pressed', b.dataset.z === state.zoom));
   document.querySelectorAll('#view button').forEach(b => b.setAttribute('aria-pressed', b.dataset.v === state.view));
   $('#zoom').hidden = $('#btnHoje').hidden = state.view === 'line';
-  const lm = $('#lpMenu'); lm.hidden = state.view !== 'line' || state.projects.length < 2;
+  // o seletor de vários projetos fica sempre à vista (com 2 projetos ou mais); escolher um leva para a Linha única
+  const lm = $('#lpMenu'); lm.hidden = state.projects.length < 2;
   if (!lm.hidden) {
-    const n = lineProjects().length; $('#lpN').textContent = n > 1 ? n : '';
-    $('#lpPop').innerHTML = `<div class="lp-h">Mostrar na Linha única</div>` + state.projects.map(p => {
+    const n = state.view === 'line' ? lineProjects().length : 0; $('#lpN').textContent = n > 1 ? n : '';
+    $('#lpPop').innerHTML = `<div class="lp-h">Ver juntos na Linha única</div>` + state.projects.map(p => {
       const on = p.id === state.currentId || state.lineSel.includes(p.id), here = p.id === state.currentId;
       return `<label class="lp-i"><input type="checkbox" data-lp="${p.id}"${on ? ' checked' : ''}${here ? ' disabled' : ''}><span>${esc(p.name)}${here ? ' <em>aberto</em>' : ''}</span></label>`;
     }).join('') + `<div class="lp-f"><button data-lpall="1">Todos</button><button data-lpall="0">Só o aberto</button></div>`;
@@ -2671,6 +2733,13 @@ const ACT = {
   hol: () => { state.hlHol = !state.hlHol; if (state.hlHol) state.showHol = true; if (!RO) persist(); renderLegend(); renderGantt(); },
   crit: () => { state.showCrit = !state.showCrit; if (!RO) persist(); renderLegend(); renderGantt(); },
   dm: () => openDm(null),
+  // atalho da barra lateral: abre a Linha única com a lista de projetos para escolher
+  lpOpen: () => {
+    if (state.projects.length < 2) return toast('Crie ou abra outro projeto para ver os dois juntos na Linha única.');
+    if (state.view !== 'line') { state.view = 'line'; persist(); renderTop(); renderGantt('zoom'); }
+    // depois do clique: o mesmo clique fecharia os menus abertos fora dele
+    setTimeout(() => { const m = $('#lpMenu'); m.open = true; m.scrollIntoView({ block: 'nearest', behavior: 'smooth' }); m.querySelector('summary').focus({ preventScroll: true }); });
+  },
   dmRe: () => openDm(cur()),
   load: () => { renderLoad(); const d = $('#dlgLoad'); d.returnValue = ''; d.showModal(); },
   marks: () => { renderMarks(); const d = $('#dlgMarks'); d.returnValue = ''; d.showModal(); },
@@ -2736,11 +2805,13 @@ document.querySelectorAll('#drawer [data-close]').forEach(b => b.addEventListene
 $('#lpPop').addEventListener('change', e => {
   const c = e.target.closest('[data-lp]'); if (!c) return;
   state.lineSel = state.lineSel.filter(id => id !== c.dataset.lp); if (c.checked) state.lineSel.push(c.dataset.lp);
+  if (c.checked && state.view !== 'line') state.view = 'line';
   if (!RO) persist(); renderTop(); renderGantt('zoom'); $('#lpMenu').open = true;
 });
 $('#lpPop').addEventListener('click', e => {
   const b = e.target.closest('[data-lpall]'); if (!b) return;
   state.lineSel = b.dataset.lpall === '1' ? state.projects.map(p => p.id).filter(id => id !== state.currentId) : [];
+  if (b.dataset.lpall === '1') state.view = 'line';
   if (!RO) persist(); renderTop(); renderGantt('zoom'); $('#lpMenu').open = true;
 });
 $('#view').addEventListener('click', e => {
@@ -2753,6 +2824,10 @@ $('#zoom').addEventListener('click', e => {
 });
 $('#pTitle').addEventListener('input', e => { cur().name = e.target.value.trim() || 'Sem nome'; save(); renderSide(); document.title = cur().name + ' | Roadmap'; });
 $('#pSub').addEventListener('input', e => { cur().area = e.target.value; save(); });
+// Menu do celular: abre e fecha o resto da barra lateral; escolher algo nela fecha o menu
+const sideOpen = on => { $('.side').classList.toggle('open', on); $('#sideTog').setAttribute('aria-expanded', on); };
+$('#sideTog').addEventListener('click', () => sideOpen(!$('.side').classList.contains('open')));
+$('#sideMore').addEventListener('click', e => { if (e.target.closest('button:not(.x):not([data-team])')) sideOpen(false); });
 $('#plist').addEventListener('click', e => {
   const b = e.target.closest('[data-p]'); if (!b || b.dataset.p === state.currentId) return;
   state.currentId = b.dataset.p; save(); closeDrawer(); render('load');
@@ -2773,7 +2848,7 @@ $('#btnOpen').addEventListener('click', () => $('#fileOpen').click());
 $('#btnManual').addEventListener('click', () => $('#dlgManual').showModal());
 // Novidades: as seções do Manual que mudaram nesta versão ganham um selo, e o botão Manual avisa quem ainda não abriu desde então.
 // A cada versão nova, troque a data e a lista abaixo.
-const NOVIDADES = { versao: '2026-11-24', secoes: ['Planejar D− (de trás para frente)'] };
+const NOVIDADES = { versao: '2026-11-25', secoes: ['Onde fica cada coisa', 'Ler o cronograma', 'Planejar D− (de trás para frente)'] };
 {
   const sums = [...document.querySelectorAll('#dlgManual summary')].filter(x => NOVIDADES.secoes.includes(x.textContent.trim()));
   sums.forEach(x => x.insertAdjacentHTML('beforeend', '<span class="man-new">Novo nesta versão</span>'));

diff --git a/README.md b/README.md
@@ -9,7 +9,7 @@ Ferramenta para montar cronogramas e roadmaps de projetos no navegador. É um ú
 ## O que dá para fazer
 
 - A visão Detalhada é um Gantt com uma linha por tarefa: grupos coloridos, dependências, marcos, % concluído e zoom por semana, mês ou trimestre. Arraste uma barra para mudar as datas.
-- A Linha única resume o projeto numa faixa de tarefas em sequência, com nome e datas. Com vários projetos, eles ficam um embaixo do outro sobre a mesma régua de meses, e dá para ver em que meses se cruzam.
+- A Linha única resume o projeto numa faixa de tarefas em sequência, com nome e datas. Com vários projetos (botão **Vários projetos** na barra do cronograma, ou **Vários na Linha única** na barra lateral), eles ficam um embaixo do outro sobre a mesma régua de meses, e dá para ver em que meses se cruzam.
 - A Visão geral põe todos os projetos numa linha do tempo e mostra se cada um está no prazo, em atenção, atrasado ou concluído.
 - Planejar D− monta o cronograma de trás para frente a partir de um marco: você dá um nome ao marco (por exemplo, o início do desenvolvimento da TI), informa a data dele e quantos dias úteis cada atividade leva, e o programa encaixa tudo antes dessa data, sem fins de semana e feriados. Se o marco mudar de data, é só replanejar. Dá para salvar a lista de atividades (com dias úteis, responsáveis e nome do marco) como modelo e escolher qual modelo abre por padrão.
 - Inserir em lote abre uma tabela com Seção, Atividade, Responsável, Início, Fim e Marco. Você digita ou cola do Excel, cria seções novas ali mesmo, e o programa preenche o que ficar vazio.
@@ -26,6 +26,7 @@ Ferramenta para montar cronogramas e roadmaps de projetos no navegador. É um ú
 - No modo equipe, várias pessoas editam o mesmo roadmap por um arquivo .json numa pasta do SharePoint ou OneDrive sincronizada.
 - Cada tarefa aceita mais de um responsável (aparecem juntos na mesma linha, como "Ana / Bruno") e tem um checklist de até 15 itens no painel lateral, para marcar o que já foi feito.
 - O botão **Editar grupos**, no começo da linha de grupos, abre a tela para renomear, mudar a cor, criar ou excluir grupos.
+- Os menus seguem uma ordem fixa: na barra lateral, criar, painéis de todos os projetos, lista de projetos, modelos, equipe e arquivos; na barra do cronograma, à esquerda o que muda a visualização e à direita o que mexe no projeto, com **Nova tarefa** no fim. No celular, a barra lateral abre pelo botão **Menu**.
 - Também tem busca e filtros, desfazer e refazer (Ctrl+Z / Ctrl+Y), modelos de projeto, tema claro e escuro e um Manual dentro do programa.
 
 ![Linha única com a régua de meses](docs/captura-linha-unica.png)
